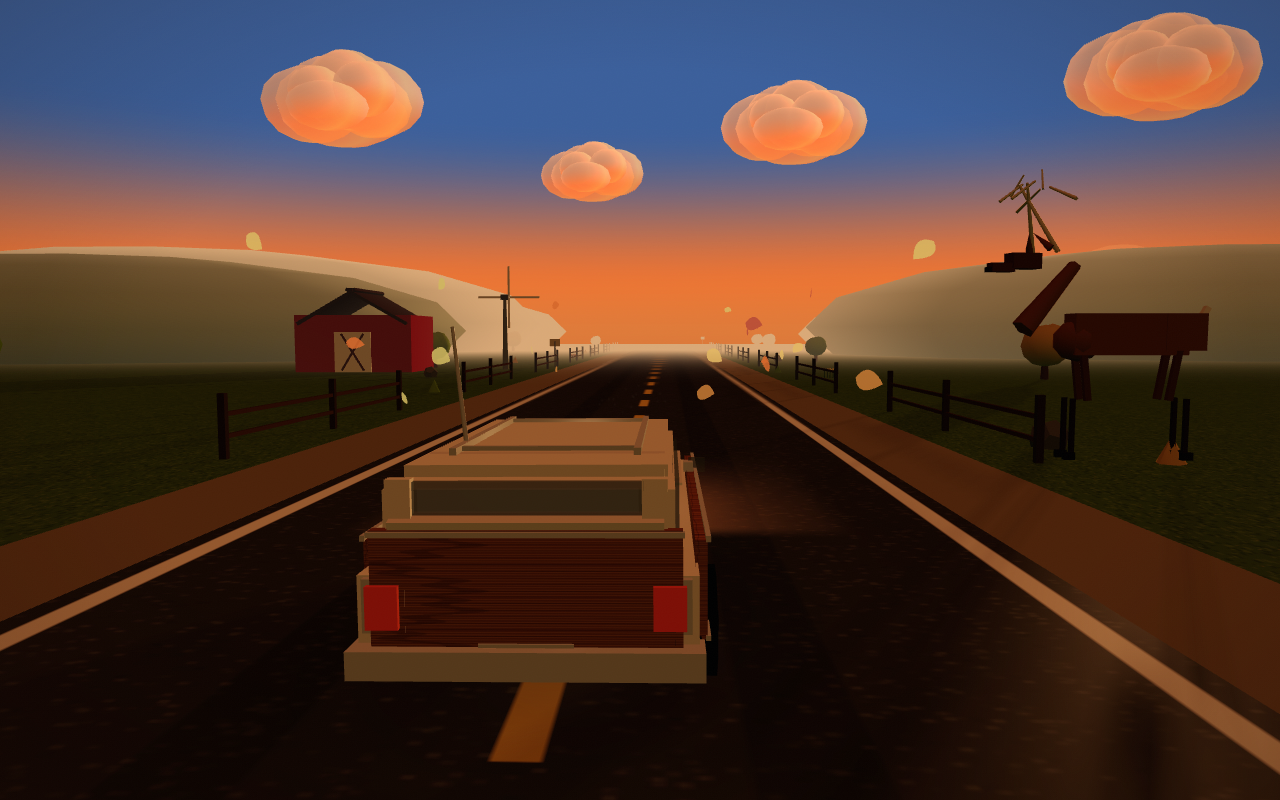
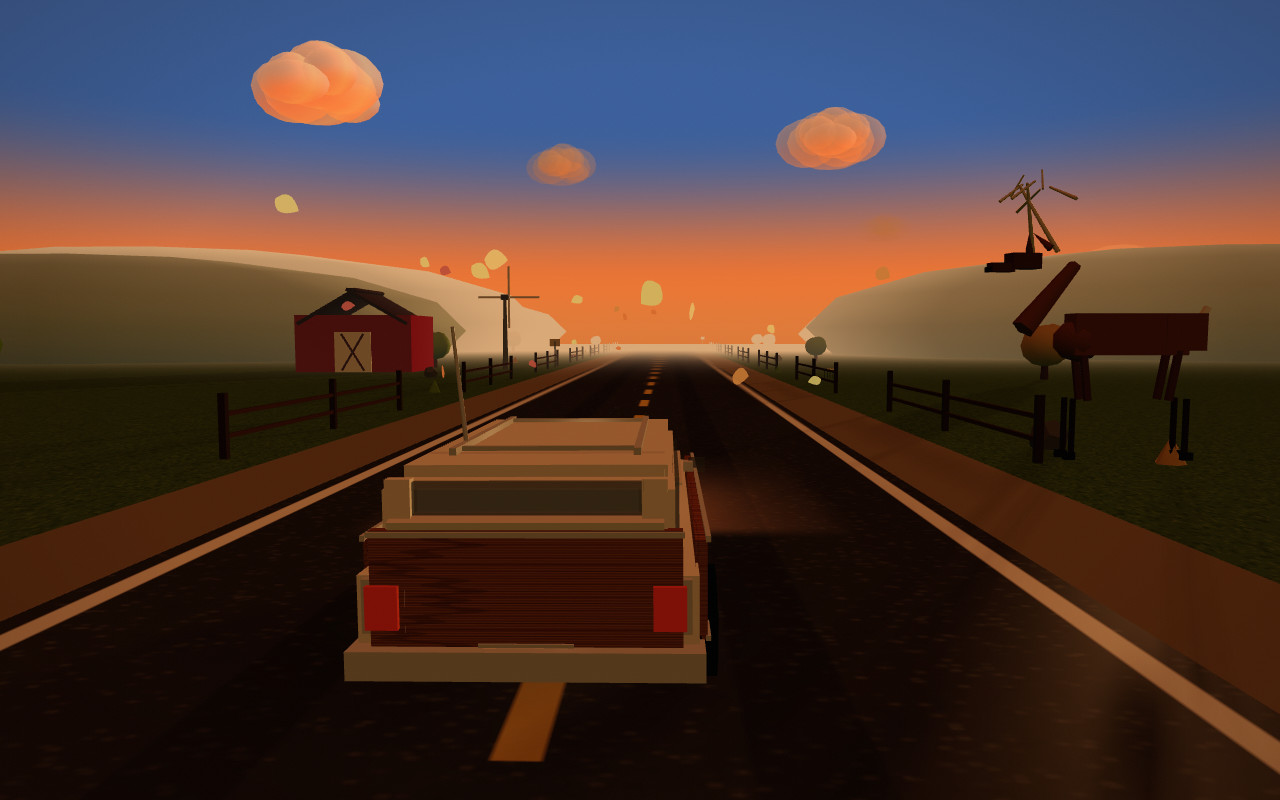
feat(scene): recede clouds into the Air fog envelope
Puff shader mixes color and alpha by road depth abs(z) using Air
fog uniforms. Four CLOUD_LANES sit on distinct Z with far masses
smaller. tickClouds recycles Z like hills. Less motion still only
cuts X drift.

diff --git a/src/scene.js b/src/scene.js
@@ -38,6 +38,13 @@ const DECK = {
   cloudZRate: 0.1,
 };
 
+const CLOUD_LANES = [
+  { x: -22, y: 17.6, z: -48, scale: 1.08 },
+  { x: 16, y: 20.0, z: -76, scale: 1.22 },
+  { x: 30, y: 16.2, z: -112, scale: 0.88 },
+  { x: -12, y: 21.4, z: -94, scale: 1.02 },
+];
+
 const WHITE = new THREE.Color(0xffffff);
 const moonFill = new THREE.Color(0x8a96b8);
 const nightCloud = new THREE.Color(0x6e7c98);
@@ -331,6 +338,22 @@ function paintAir(stage, air) {
     const base = mat.userData.baseEmissive ?? 0.35;
     mat.emissiveIntensity = base * air.emissive;
   }
+}
+
+function recycleZ(object, speedDt, far, near) {
+  object.position.z += speedDt;
+  if (object.position.z > near) object.position.z -= far;
+}
+
+function tickClouds(clouds, dt, speed, reduced) {
+  const xRate = reduced ? 0.05 : 0.22;
+  clouds.forEach((cloud, i) => {
+    cloud.position.x += dt * (xRate + i * 0.03 * (reduced ? 0.2 : 1));
+    if (cloud.position.x > 58) cloud.position.x = -58;
+    if (cloud.position.x < -58) cloud.position.x = 58;
+    recycleZ(cloud, speed * DECK.cloudZRate * dt, DECK.cloudFar, DECK.cloudNear);
+    if (cloud.userData.baseScale) cloud.scale.setScalar(cloud.userData.baseScale);
+  });
 }
 
 function canvasTexture(size, paint, wrap = 'repeat') {
@@ -1076,8 +1099,11 @@ export function createWorld(canvas) {
     uniforms: cloudUniforms,
     vertexShader: `
       varying vec3 vWorldNormal;
+      varying vec3 vWorldPosition;
       void main() {
         vWorldNormal = normalize(mat3(modelMatrix) * normal);
+        vec4 world = modelMatrix * vec4(position, 1.0);
+        vWorldPosition = world.xyz;
         gl_Position = projectionMatrix * modelViewMatrix * vec4(position, 1.0);
       }
     `,
@@ -1088,7 +1114,11 @@ export function createWorld(canvas) {
       uniform vec3 uUnder;
       uniform vec3 uLightDir;
       uniform float uOpacity;
+      uniform vec3 uFogColor;
+      uniform float uFogNear;
+      uniform float uFogFar;
       varying vec3 vWorldNormal;
+      varying vec3 vWorldPosition;
       void main() {
         vec3 N = normalize(vWorldNormal);
         vec3 L = normalize(uLightDir);
@@ -1100,7 +1130,11 @@ export function createWorld(canvas) {
         col = mix(col, uLit, crown * 0.22);
         float rim = pow(max(0.0, 1.0 - abs(dot(N, L))), 1.4) * 0.3;
         col += uRim * rim;
-        gl_FragColor = vec4(col, uOpacity);
+        float depth = abs(vWorldPosition.z);
+        float fogF = smoothstep(uFogNear, uFogFar, depth);
+        col = mix(col, uFogColor, fogF);
+        float alpha = uOpacity * (1.0 - fogF);
+        gl_FragColor = vec4(col, alpha);
       }
     `,
     transparent: true,
@@ -1128,22 +1162,17 @@ export function createWorld(canvas) {
     const group = new THREE.Group();
     for (const [x, y, z, sx, sy, sz] of puffOffsets) {
       const puff = new THREE.Mesh(puffGeo, cloudMat);
-      puff.position.set(x, y, z);
+      puff.position.set(x, y, z * 2.6);
       puff.scale.set(sx, sy, sz);
       group.add(puff);
     }
     return group;
   }
-  const cloudSlots = [
-    [-22, 17.6, -52, 1.38],
-    [12, 20.4, -72, 1.58],
-    [26, 15.2, -38, 1.12],
-    [-8, 19.6, -90, 1.42],
-  ];
-  for (const [x, y, z, s] of cloudSlots) {
+  for (const lane of CLOUD_LANES) {
     const cloud = createCloud();
-    cloud.position.set(x, y, z);
-    cloud.scale.setScalar(s);
+    cloud.position.set(lane.x, lane.y, lane.z);
+    cloud.scale.setScalar(lane.scale);
+    cloud.userData.baseScale = lane.scale;
     scene.add(cloud);
     clouds.push(cloud);
   }
@@ -1252,11 +1281,6 @@ export function createWorld(canvas) {
     toneMapped: false,
     side: THREE.DoubleSide,
   });
-
-  function recycleZ(object, speedDt, far, near) {
-    object.position.z += speedDt;
-    if (object.position.z > near) object.position.z -= far;
-  }
 
   function gatherNeon(root) {
     const mats = [];
@@ -1569,11 +1593,7 @@ export function createWorld(canvas) {
       recycleZ(item.obj, move * item.speed, item.far, item.near);
     });
     hills.forEach((hill) => recycleZ(hill, move * 0.22, 90, 20));
-    const cloudDrift = reduced ? 0.05 : 0.22;
-    clouds.forEach((cloud, i) => {
-      cloud.position.x += dt * (cloudDrift + i * 0.03 * (reduced ? 0.2 : 1));
-      if (cloud.position.x > 58) cloud.position.x = -58;
-    });
+    tickClouds(clouds, dt, speed, reduced);
 
     tickWeather(dt, speed, reduced);
     tickEvent(dt, speed, reduced);
